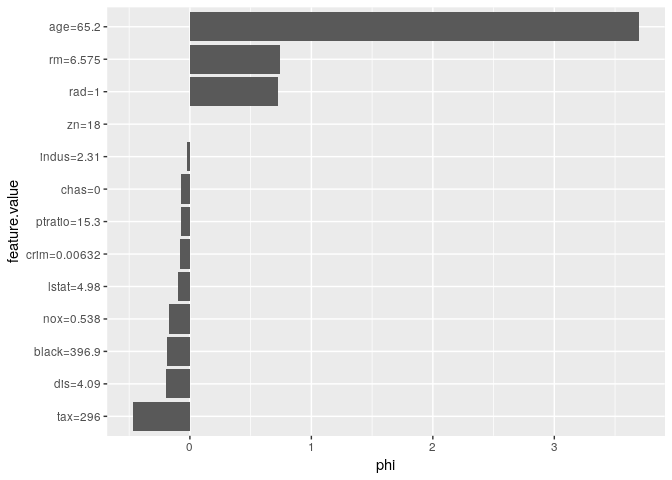
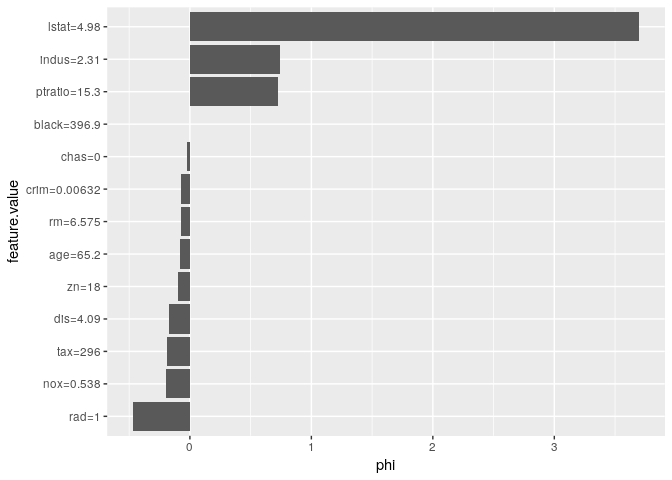
finished removal of dplyr and tidyr

diff --git a/README.md b/README.md
@@ -54,26 +54,26 @@ imp = FeatureImp$new(model, loss = "mae")
 plot(imp)
 ```
 
-![](README_files/figure-markdown_github-ascii_identifiers/unnamed-chunk-3-1.png)
+![](README_files/figure-markdown_github/unnamed-chunk-3-1.png)
 
 ``` r
 imp$results
 ```
 
-    ##    feature original.error permutationError importance
-    ## 1    lstat       1.004678         4.235347   4.215628
-    ## 2       rm       1.004678         3.273892   3.258649
-    ## 3     crim       1.004678         1.731467   1.723405
-    ## 4  ptratio       1.004678         1.729005   1.720955
-    ## 5      nox       1.004678         1.661731   1.653994
-    ## 6      dis       1.004678         1.653906   1.646205
-    ## 7    indus       1.004678         1.608825   1.601335
-    ## 8      age       1.004678         1.378753   1.372334
-    ## 9      tax       1.004678         1.360375   1.354041
-    ## 10   black       1.004678         1.246488   1.240685
-    ## 11     rad       1.004678         1.161532   1.156124
-    ## 12      zn       1.004678         1.061880   1.056936
-    ## 13    chas       1.004678         1.034714   1.029897
+    ##    feature original.error permutation.error importance
+    ## 1    lstat       1.004678          4.235347   4.215628
+    ## 2       rm       1.004678          3.273892   3.258649
+    ## 3     crim       1.004678          1.731467   1.723405
+    ## 4  ptratio       1.004678          1.729005   1.720955
+    ## 5      nox       1.004678          1.661731   1.653994
+    ## 6      dis       1.004678          1.653906   1.646205
+    ## 7    indus       1.004678          1.608825   1.601335
+    ## 8      age       1.004678          1.378753   1.372334
+    ## 9      tax       1.004678          1.360375   1.354041
+    ## 10   black       1.004678          1.246488   1.240685
+    ## 11     rad       1.004678          1.161532   1.156124
+    ## 12      zn       1.004678          1.061880   1.056936
+    ## 13    chas       1.004678          1.034714   1.029897
 
 ### Let"s build a single tree from the randomForest predictions! (Tree surrogate)
 
@@ -82,7 +82,7 @@ tree = TreeSurrogate$new(model, maxdepth = 2)
 plot(tree)
 ```
 
-![](README_files/figure-markdown_github-ascii_identifiers/unnamed-chunk-4-1.png)
+![](README_files/figure-markdown_github/unnamed-chunk-4-1.png)
 
 ### How does lstat influence the prediction on average? (Partial dependence plot)
 
@@ -91,7 +91,7 @@ pdp.obj = PartialDependence$new(model, feature = "lstat")
 plot(pdp.obj)
 ```
 
-![](README_files/figure-markdown_github-ascii_identifiers/unnamed-chunk-5-1.png)
+![](README_files/figure-markdown_github/unnamed-chunk-5-1.png)
 
 ### How does lstat influence the individual predictions? (ICE)
 
@@ -100,7 +100,7 @@ ice.curves = Ice$new(model, feature = "lstat")
 plot(ice.curves) 
 ```
 
-![](README_files/figure-markdown_github-ascii_identifiers/unnamed-chunk-6-1.png)
+![](README_files/figure-markdown_github/unnamed-chunk-6-1.png)
 
 ### Explain a single prediction with a local linear model. (LIME)
 
@@ -118,7 +118,7 @@ lime.explain$results
 plot(lime.explain)
 ```
 
-![](README_files/figure-markdown_github-ascii_identifiers/unnamed-chunk-7-1.png)
+![](README_files/figure-markdown_github/unnamed-chunk-7-1.png)
 
 ### Explain a single prediction with game theory. (Shapley)
 
@@ -128,25 +128,25 @@ shapley.explain$results
 ```
 
     ##    feature           phi      phi.var feature.value
-    ## 1      age -0.0850019791  0.333944689  crim=0.00632
-    ## 2    black -0.0008046753  0.267453217         zn=18
-    ## 3     chas -0.0240226667  0.009907358    indus=2.31
-    ## 4     crim -0.0723403620  1.236298269        chas=0
-    ## 5      dis -0.1753825842  1.089173160     nox=0.538
-    ## 6    indus  0.7402716277  1.556442963      rm=6.575
-    ## 7    lstat  3.7001500745 19.387675029      age=65.2
-    ## 8      nox -0.1974995303  0.727310327      dis=4.09
-    ## 9  ptratio  0.7285225750  1.220922649         rad=1
-    ## 10     rad -0.4722923333  0.407054214       tax=296
-    ## 11      rm -0.0752455000  7.788278183  ptratio=15.3
-    ## 12     tax -0.1853100000  0.393279176   black=396.9
-    ## 13      zn -0.0950710000  0.042044428    lstat=4.98
+    ## 1     crim -0.0723403620  1.236298269  crim=0.00632
+    ## 2       zn -0.0950710000  0.042044428         zn=18
+    ## 3    indus  0.7402716277  1.556442963    indus=2.31
+    ## 4     chas -0.0240226667  0.009907358        chas=0
+    ## 5      nox -0.1974995303  0.727310327     nox=0.538
+    ## 6       rm -0.0752455000  7.788278183      rm=6.575
+    ## 7      age -0.0850019791  0.333944689      age=65.2
+    ## 8      dis -0.1753825842  1.089173160      dis=4.09
+    ## 9      rad -0.4722923333  0.407054214         rad=1
+    ## 10     tax -0.1853100000  0.393279176       tax=296
+    ## 11 ptratio  0.7285225750  1.220922649  ptratio=15.3
+    ## 12   black -0.0008046753  0.267453217   black=396.9
+    ## 13   lstat  3.7001500745 19.387675029    lstat=4.98
 
 ``` r
 plot(shapley.explain)
 ```
 
-![](README_files/figure-markdown_github-ascii_identifiers/unnamed-chunk-8-1.png)
+![](README_files/figure-markdown_github/unnamed-chunk-8-1.png)
 
 Python Implementation
 =====================
